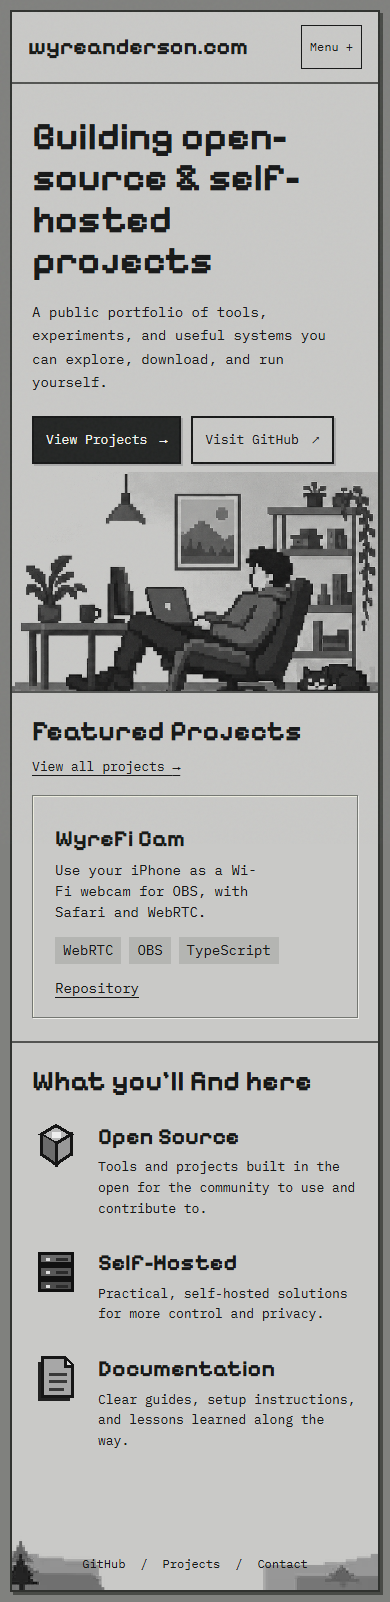
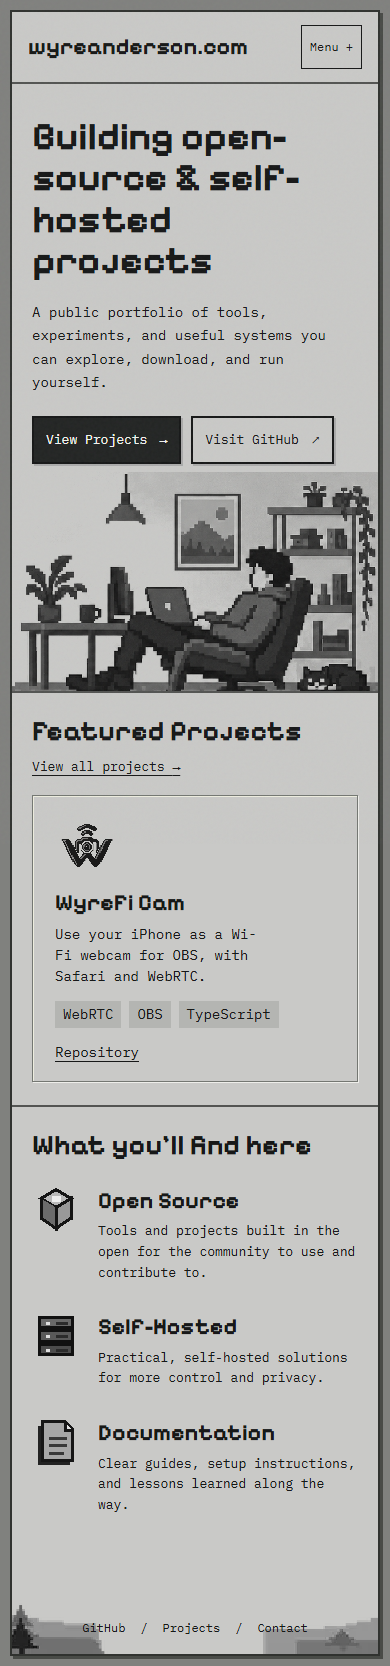
feat: add WyreFi Cam pixel art and project artwork standard

diff --git a/src/components/project-card.tsx b/src/components/project-card.tsx
@@ -4,6 +4,16 @@ import { safeUrl } from "@/lib/projects";
 export function ProjectCard({ project }: { project: Project }) {
   return (
     <article className="project-card">
+      {project.coverImage && (
+        <Image
+          className="project-art"
+          src={project.coverImage}
+          width={64}
+          height={64}
+          alt=""
+          unoptimized
+        />
+      )}
       <h3>{project.title}</h3>
       <p>{project.shortDescription}</p>
       <ul className="tags" aria-label="Technologies">

diff --git a/src/app/globals.css b/src/app/globals.css
@@ -206,6 +206,12 @@ h1 {
 .project-card img {
   image-rendering: pixelated;
 }
+.project-art {
+  display: block;
+  width: 64px;
+  height: 64px;
+  object-fit: contain;
+}
 .placeholder-label {
   display: inline-block;
   margin-top: 14px;

diff --git a/src/content/projects.ts b/src/content/projects.ts
@@ -29,5 +29,6 @@ export const projects: Project[] = [
     status: "published",
     featured: true,
     repoUrl: "https://github.com/Wyreanderson/WyreFi-Cam",
+    coverImage: "/assets/projects/wyrefi-cam-pixel.png",
   },
 ];

diff --git a/docs/PROJECT_ART.md b/docs/PROJECT_ART.md
@@ -1,0 +1,30 @@
+# Padrão visual dos projetos
+
+Aplicar a cada novo projeto adicionado a este portfólio. A preferência foi definida pelo proprietário: adaptar a identidade existente quando fornecida; quando não existir uma imagem, gerar uma arte original baseada na função real do projeto.
+
+## Direção de arte
+
+- Pixel art monocromática, coerente com o hero e ícones aprovados.
+- Um único símbolo por projeto: silhueta distinta, sem texto embutido, slogans ou detalhes que desapareçam em miniatura.
+- Se houver logo, preservar a identidade: proporções essenciais, forma, significado e elementos reconhecíveis. Converter a paleta para cinzas; não redesenhar a marca livremente.
+- PNG quadrado com transparência real, símbolo centrado e margem de segurança de aproximadamente 15%. Sem fundo escuro, moldura, sombra, brilho ou gradientes.
+- Grelha de pixels consistente, contornos em degraus e poucos tons: carvão, cinza médio, cinza claro. Evitar anti-aliasing e detalhes fotográficos.
+- Exibição padrão: 64×64 CSS px, object-fit contain, image-rendering pixelated. Dimensões reservadas para evitar layout shift. A arte é decorativa, identificada pelo título adjacente.
+- Equilibrar tamanho aparente e peso visual com os outros ícones, verificando sempre no cartão real em desktop e mobile.
+
+## Fluxo para cada novo projeto
+
+1. Confirmar repositório e ler a descrição real, sem executar código externo.
+2. Se o proprietário fornecer logo, usá-la como alvo da adaptação; guardar original em docs/brand-references sem sobrescrever.
+3. Se não houver imagem, gerar um símbolo pixel art original que represente a função comprovada do projeto. Não inventar funcionalidades ou usar marcas de terceiros.
+4. Guardar a arte final em public/assets/projects/<slug>-pixel.png e atribuir coverImage em src/content/projects.ts. O cartão já suporta essa propriedade.
+5. Rever transparência, legibilidade a 64 px, proporções e contraste. Atualizar capturas e executar os checks pertinentes.
+6. Commit apenas neste repositório. Alterações aos repositórios dos projetos, push, publicação e mudanças remotas continuam a precisar da autorização correspondente.
+
+## Prompt base
+
+“Create a monochrome pixel art portfolio icon for [verified project purpose]. [Preserve the supplied logo identity OR design one distinctive original symbol]. Square canvas, transparent background, centered symbol, approximately 15% safe margin, crisp grid-aligned stepped edges, charcoal and restrained gray highlights, readable at 64×64 pixels on light gray. No text, gradients, blur, background scene or decorative frame.”
+
+## WyreFi Cam
+
+Referência original fornecida pelo proprietário: docs/brand-references/wyrefi-cam-original.png. Preservar W, câmara/lente central e arcos Wi-Fi. Adaptação para o portfólio; a marca original e o repositório WyreFi-Cam não são alterados por este fluxo.

diff --git a/docs/QA.md b/docs/QA.md
@@ -54,3 +54,11 @@ Perfil confirmado pelo proprietário: https://github.com/Wyreanderson. Links ati
 Autorizado pelo proprietário através do link https://github.com/Wyreanderson/WyreFi-Cam. Metadados e README públicos consultados: repositório público, licença MIT, TypeScript, webcam iPhone via Safari/WebRTC para OBS, self-hosted. Nenhum código desse repositório foi executado ou alterado.
 
 Adicionado como destaque publicado nas categorias open-source e self-hosted, com ligação apenas ao repositório. Nenhuma demo ou download foi presumido. Os quatro placeholders desaparecem conforme a regra original; há agora um cartão real. O estado vazio continua suportado e o filtro vazio é testado. Lint, TypeScript, 9 testes e build passaram; capturas atualizadas nas quatro larguras. Esta alteração substitui o requisito inicial de conteúdo vazio por autorização explícita do proprietário.
+
+## Identidade visual dos projetos
+
+Logo WyreFi Cam fornecida pelo proprietário adaptada com geração de imagem para pixel art monocromática. W, câmara e Wi-Fi preservados; PNG transparente (1254×1254, alpha no canto 0), integrado no cartão a 64×64 px com espaço reservado e alt vazio por repetir a identidade do título. Original preservada em docs/brand-references. Arte do portfólio em public/assets/projects/wyrefi-cam-pixel.png.
+
+Padrão permanente documentado em docs/PROJECT_ART.md e AGENTS.md: adaptar identidade existente ou gerar arte original baseada na função comprovada de cada novo projeto. Componente usa coverImage local, já disponível no tipo, sem dependência nova. Nenhum repositório externo alterado.
+
+Validação executada: pnpm lint, pnpm typecheck, pnpm test (9 aprovados), pnpm build. Capturas atualizadas nas quatro larguras; desktop inspecionado com a arte integrada. Sem violações axe, erros de consola ou overflow detetados pela suite.

diff --git a/docs/ARCHITECTURE.md b/docs/ARCHITECTURE.md
@@ -14,7 +14,7 @@ Next.js 16.4.2, React 19.3.1, TypeScript estrito e CSS global responsivo. Págin
 
 Adicionar um objeto Project real no array de `src/content/projects.ts`, com id e slug únicos, título, descrição, tags, categorias, status e featured. Apenas publicados e destacados aparecem na homepage. Os placeholders pertencem à UI e não ao array de conteúdo. Quando há destaques, são substituídos pelos cartões reais. URLs opcionais inválidas não são renderizadas. Os conteúdos são escapados pelo React; não há HTML arbitrário.
 
-A imagem de capa é um campo opcional reservado no tipo; o cartão V1 apresenta título, descrição, tags e links, preservando o layout simples. Não há páginas de detalhes. Não guardar informação privada em rascunhos: o código-fonte também poderá ser público.
+O campo opcional coverImage apresenta a identidade do projeto a 64×64 px, acima do título. O padrão para criar e adaptar imagens está em docs/PROJECT_ART.md. O cartão apresenta título, descrição, tags e links, preservando o layout simples. Não há páginas de detalhes. Não guardar informação privada em rascunhos: o código-fonte também poderá ser público.
 
 ## Decisões
 

diff --git a/README.md b/README.md
@@ -24,3 +24,5 @@ pnpm build
 Adicionar projetos: editar apenas `src/content/projects.ts`, com conteúdo real e `status: 'published'`, `featured: true`. Links opcionais aceitam apenas HTTPS sem credenciais. Os quatro placeholders desaparecem quando existem destaques publicados. Configurar GitHub e contacto em `src/config/site.ts`; GitHub confirmado e ativo; contacto permanece nulo até ser informado.
 
 Referência aprovada: `docs/approved-reference.png`. Arquitetura, QA e publicação assistida em `docs/`. Nenhum deploy ou push é executado automaticamente.
+
+Padrão de arte dos projetos: [docs/PROJECT_ART.md](docs/PROJECT_ART.md). Cada novo projeto deve receber uma imagem pixel art coerente; logos fornecidas são adaptadas preservando a identidade.

diff --git a/AGENTS.md b/AGENTS.md
@@ -22,3 +22,7 @@ This block is written and re-added by `next dev` — verify at `node_modules/nex
 
 <!-- END:nextjs-agent-rules -->
 
+
+## Imagens dos projetos
+
+Para cada novo projeto no portfólio, seguir docs/PROJECT_ART.md: adaptar a logo existente com identidade preservada, ou gerar arte original quando não houver imagem fornecida. Pixel art monocromática, PNG transparente quadrado, margem uniforme e exibição a 64×64 px. Guardar em public/assets/projects e configurar coverImage. Rever o cartão real antes do commit. Não modificar outros repositórios nem fazer push remoto por este procedimento.
